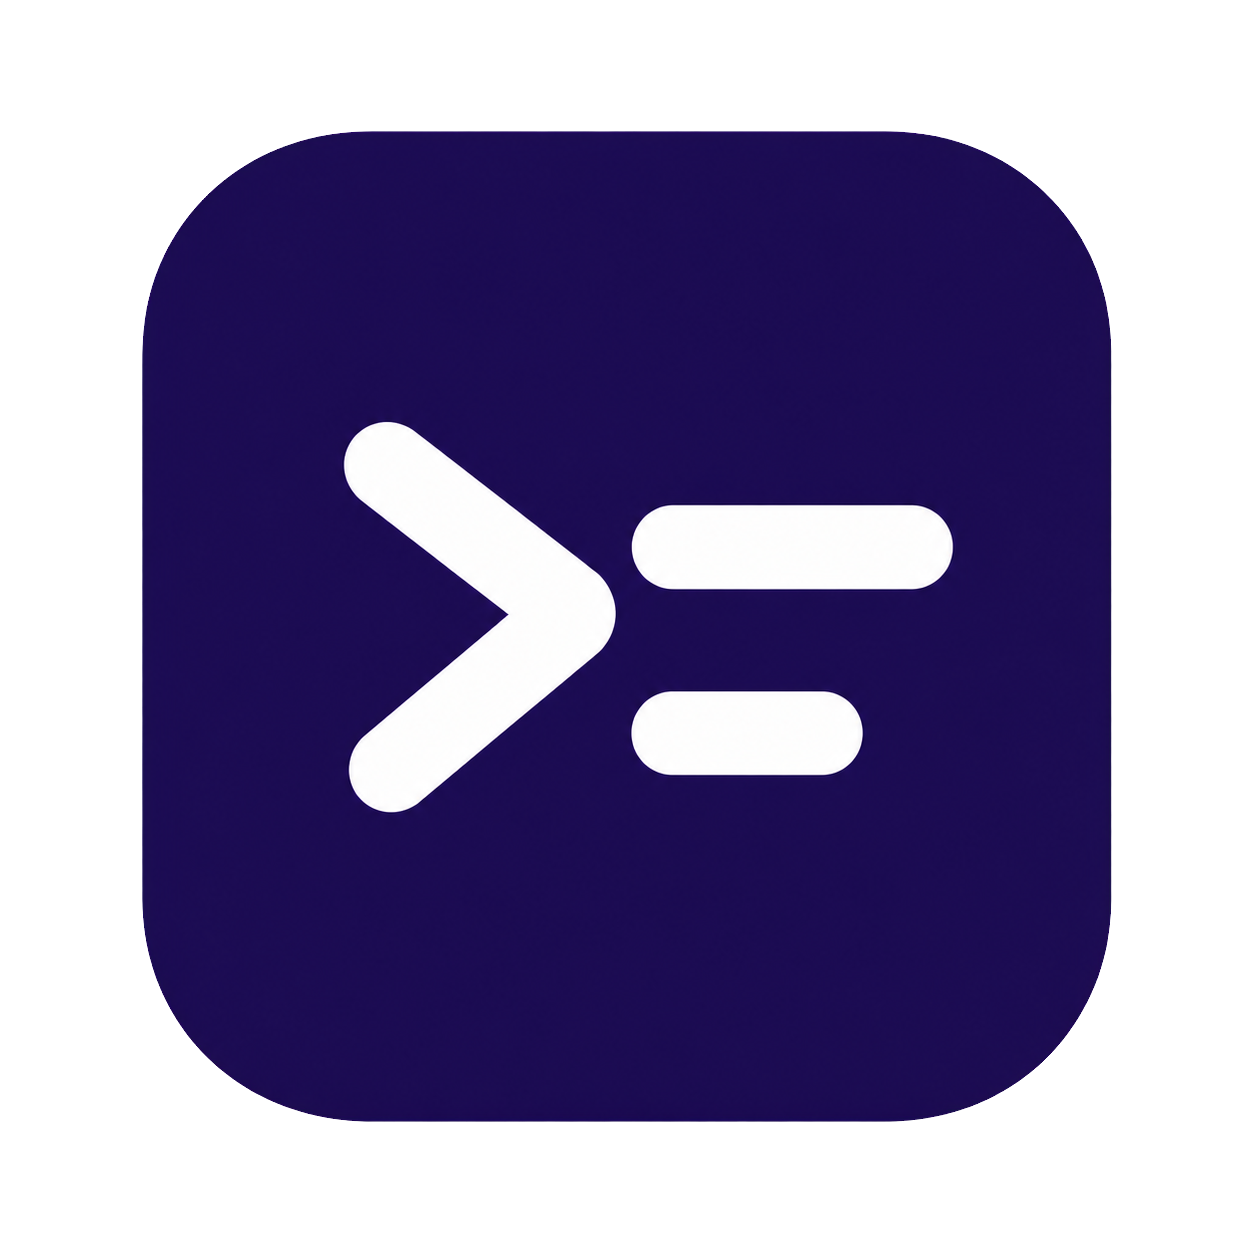
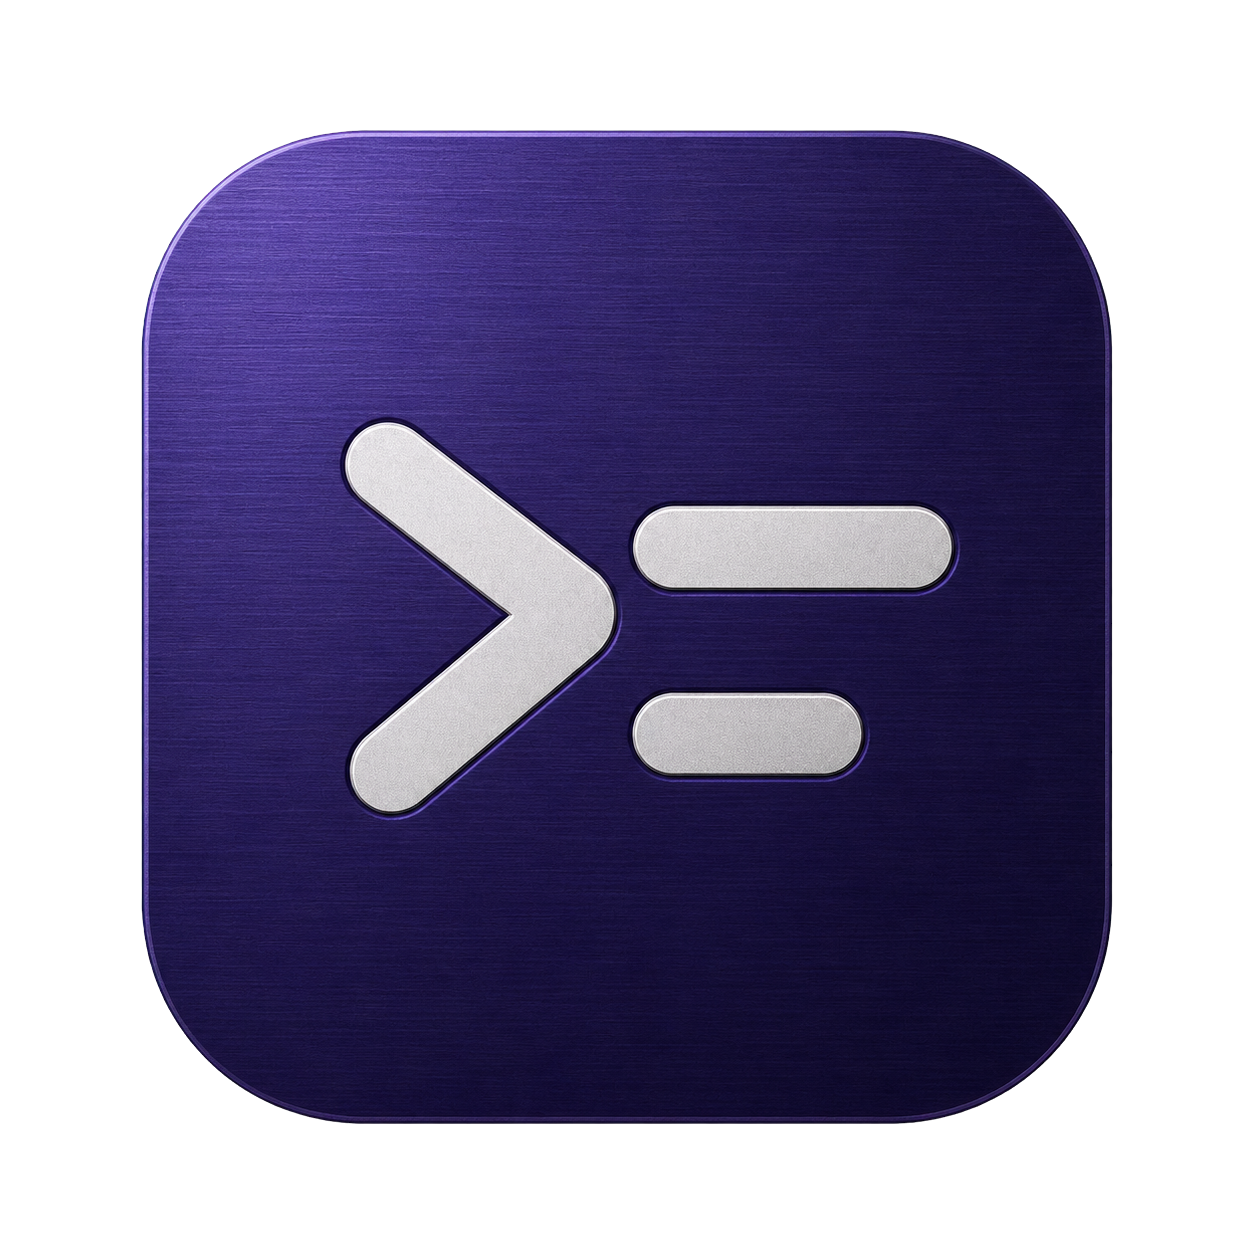
Apply selected Machined Metal brand

diff --git a/docs/brand/refined-classic-variants/README.md b/docs/brand/refined-classic-variants/README.md
@@ -17,4 +17,4 @@ All ten options keep the selected Refined Classic symbol: a greater than mark fo
 
 The matching `-source.png` files preserve the generated originals. The files without that suffix have transparent backgrounds and are ready for review or export.
 
-The current app icon remains the original flat Refined Classic artwork until a treatment is selected.
+Machined Metal is the selected app icon and title treatment. Flat Precision remains available as the small-size fallback source.
